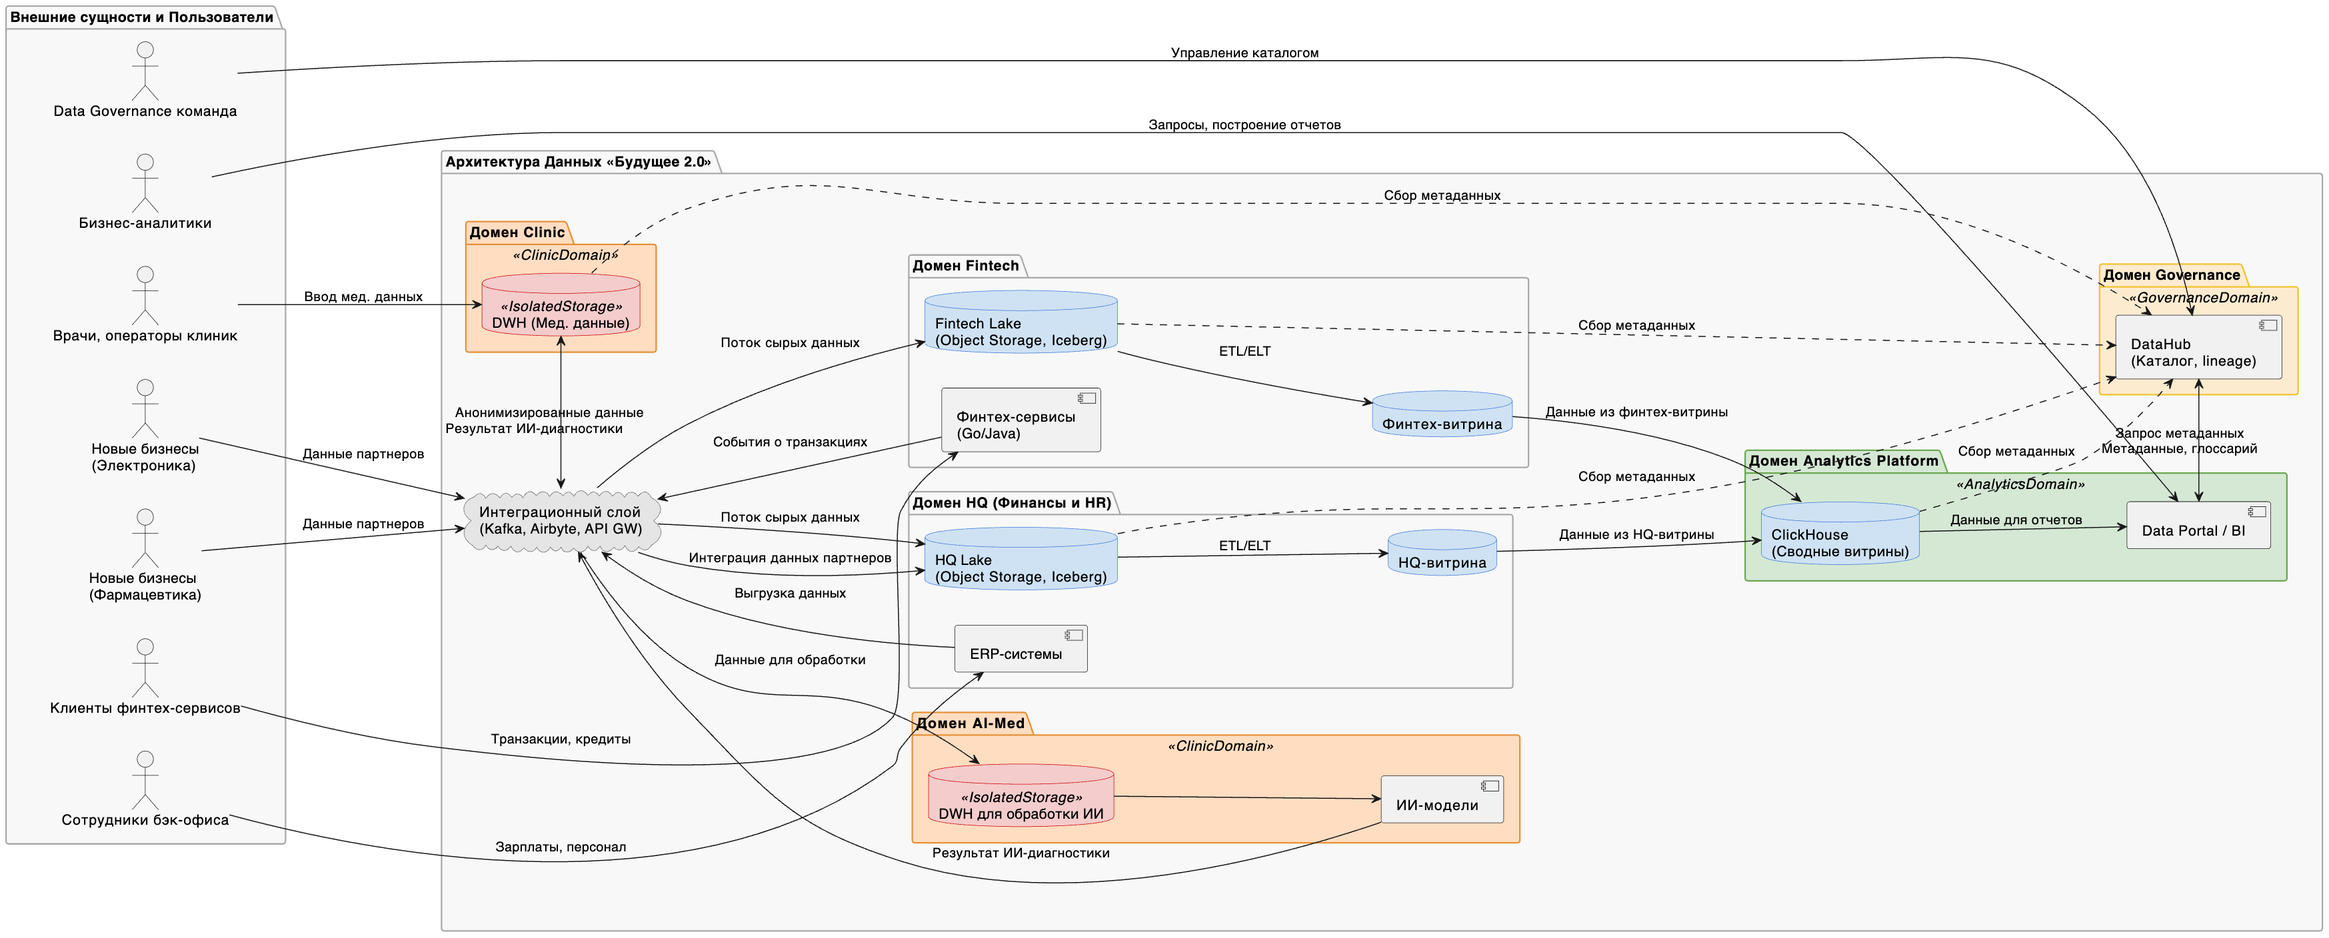
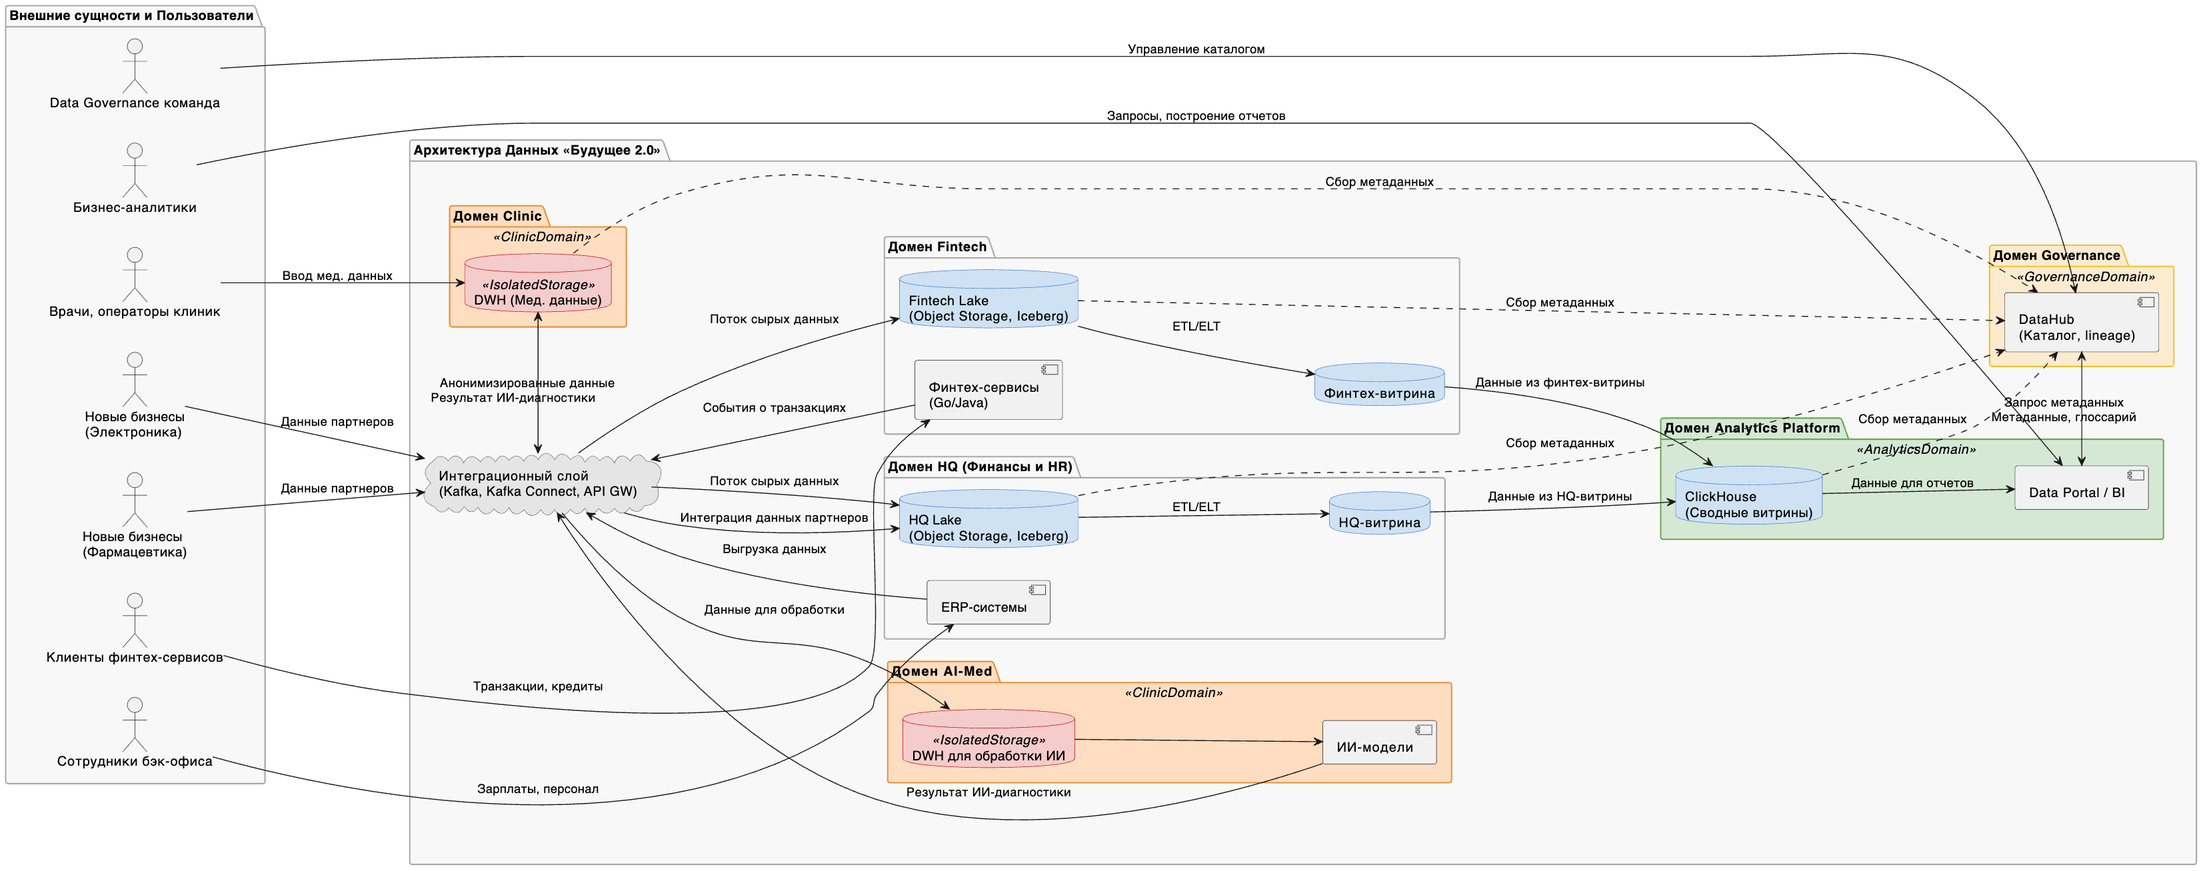
feat/task3

diff --git a/Task3/README.md b/Task3/README.md
@@ -1,0 +1,135 @@
+## 1. Технический радар компании «Будущее 2.0»
+
+*Объяснение уровней*
+
+| Уровень    | Что означает                        |
+| ---------- | ----------------------------------- |
+| **Adopt**  | Активно внедряется и поддерживается |
+| **Trial**  | Пилотируется, частично внедрено     |
+| **Assess** | Изучается, в перспективе            |
+| **Hold**   | Используется в легаси / выводится   |
+
+| Категория            | Технология / Методология   | Статус    | Комментарий                                              |
+| -------------------- | -------------------------- | --------- | -------------------------------------------------------- |
+| **Data Platforms**   | Microsoft SQL Server 2008  | **Hold**  | Устаревшее хранилище, отказ в перспективе                |
+|                      | Apache Iceberg             | **Adopt** | Слой метаданных в Data Lakehouse                         |
+|                      | ClickHouse                 | **Adopt** | Быстрое хранилище для витрин                             |
+|                      | MinIO / S3                 | **Adopt** | Объектное хранилище для сырых и очищенных данных         |
+|                      | DataHub (LinkedIn)         | **Trial** | Каталог данных, lineage, роли                            |
+|                      | Tableau                    | **Adopt** | BI-портал самообслуживания                               |
+|                      | Power BI                   | **Hold**  | Используется, но не масштабируется под новую архитектуру |
+|                      | PowerBuilder               | **Hold**  | Устаревший UI, только для легаси-зоны                    |
+| **Data Integration** | Apache Kafka               | **Adopt** | Единый обмен событиями между доменами                    |
+|                      | Kafka Connect (S3 Sink)    | **Adopt** | Потокавая передача данных между Kafka и хранилищем       |
+|                      | Apache Camel               | **Hold**  | Устаревшая шина, подлежит замене                         |
+|                      | API Gateway (Kong)         | **Adopt** | Унифицированный доступ к сервисам                        |
+| **AI / ML**          | Python + FastAPI           | **Adopt** | ИИ-сервисы и API                                         |
+|                      | JupyterHub                 | **Trial** | Среда анализа для дата-сайентистов                       |
+| **Infrastructure**   | Kubernetes / Docker        | **Adopt** | Платформа для сервисов, Kafka, BI и т.д.                 |
+|                      | Terraform / Helm           | **Trial** | Инфраструктура как код                                   |
+|                      | Prometheus / Grafana       | **Trial** | Мониторинг потоков, загрузки и отказов                   |
+| **Methodology**      | Data Mesh                  | **Adopt** | Распределённая ответственность за данные по доменам      |
+|                      | Domain-Driven Design (DDD) | **Adopt** | Архитектурная основа разделения по зонам                 |
+|                      | Event-Driven Architecture  | **Adopt** | Kafka, pub/sub модель между доменами                     |
+|                      | ELT вместо ETL             | **Adopt** | Минимум логики на ingest-этапе, максимум в витринах      |
+|                      | GDPR / HIPAA compliance    | **Adopt** | Изоляция медицинских данных                              |
+
+
+## 2.Технологический роадмап компании «Будущее 2.0»
+
+![](./diagrams/roadmap.png)
+
+| Этап                                                  | Срок        | Цель / Изменения                                                           | Ожидаемый результат                                                           | Ответственные команды                   | Ресурсы                                         |
+| ----------------------------------------------------- | ----------- | -------------------------------------------------------------------------- | ----------------------------------------------------------------------------- | --------------------------------------- | ----------------------------------------------- |
+| **1. Анализ и планирование**                          | Месяц 1     | Разделение системы на домены. Аудит DWH, данных и потоков        | Чёткое понимание границ доменов, источников данных и чувствительных элементов | Архитектура, Data Governance, Аналитика | Архитекторы, бизнес-аналитики, инженеры данных  |
+| **2. Выделение медицинского домена**                  | Месяц 1–2   | Изоляция мед. карт и ИИ-диагностик. Отключение этих данных от BI | Безопасное хранение и ограничение доступа к мед. данным                       | Команда DWH, ИИ-команда, ИБ             | Политики доступа, аудит, настройка прав         |
+| **3. Развёртывание Data Lakehouse**                   | Месяц 2–4   | Внедрение object storage (S3/MinIO) + Apache Iceberg                    | Гибкая, масштабируемая платформа для хранения сырых и очищенных данных        | DevOps, Инженеры данных                 | Объём хранилища, Kubernetes, Iceberg, Terraform |
+| **4. Публикация событий через Kafka**                 | Месяц 3–5   | Настройка потоков событий (финансы, ERP, HR)                            | Потоковое получение данных без привязки к DWH                                 | Интеграционная команда, Финтех, HQ      | Kafka, схемы Avro/JSON, ACL                     |
+| **5. Внедрение Kafka Connect**                              | Месяц 4–5   | Настройка потоков Kafka → Object Storage                                | Автоматическая передача событий в lake                                        | Инженеры данных                         | Kafka Connect, S3 endpoint, scheduler                 |
+| **6. Построение витрин (Data Marts)**                 | Месяц 5–7   | Создание витрин на ClickHouse по доменам                                | Витрины для BI, без мед. данных                                               | Команды доменов, Data Engineers         | ClickHouse, SQL/DBT, права доступа              |
+| **7. BI-портал самообслуживания**                     | Месяц 6–8   | Tableau с подключением к витринам                            | Пользователи строят отчёты без запроса к ИТ                                   | BI-команда, Архитектура                 | Tableau Server, роль BI-кураторов               |
+| **8. Внедрение DataHub**                              | Месяц 7–9   | Каталог всех безопасных источников и lineage                            | Повышение прозрачности и контроля качества данных                             | Data Governance, DevOps                 | DataHub, Elastic, Kafka               |
+| **9. Миграция от SQL Server и PowerBuilder**          | Месяц 8–12  | Постепенный отказ от DWH как единого центра                             | DWH остаётся только в мед. домене                                             | Команда DWH, клиники, DevOps            | План миграции, архивирование, SLA               |
+| **10. Подключение новых доменов (фарма, устройства)** | Месяц 10–12 | Добавление новых потоков событий и витрин                               | Новые бизнесы интегрированы без модификации DWH                               | Архитектура, Бизнес-группы              | Kafka topics, BI-права, метаданные              |
+
+## 📌 Пояснения к этапам
+
+### Этап 1. Анализ и планирование (разделение на домены)
+- **Зачем**: устранить хаос и централизацию логики в DWH.
+- **Проблема, которую решает**: невозможность независимо развивать разные части бизнеса.
+- **Что даёт**: чёткая архитектура, ответственность за данные, подготовка к Data Mesh.
+
+---
+
+### Этап 2. Выделение медицинского домена (изоляция медицинских данных)
+- **Зачем**: исключить мед. данные из BI и аналитики.
+- **Проблема**: риск утечек, нарушение регуляций (GDPR, HIPAA).
+- **Что даёт**: соблюдение нормативов, безопасность, защита ИИ-процессов.
+
+---
+
+### Этап 3. Развёртывание Data Lakehouse
+- **Зачем**: перейти от перегруженного DWH к масштабируемому хранилищу.
+- **Проблема**: DWH тормозит всё, нельзя гибко расширяться.
+- **Что даёт**: низкая стоимость хранения, раздельная обработка данных и логики.
+
+---
+
+### Этап 4. Публикация событий через Kafka
+- **Зачем**: получать данные потоками, а не выгрузками.
+- **Проблема**: невозможность near real-time отчётности.
+- **Что даёт**: событие = изменение, не нужно ждать ночных выгрузок.
+
+---
+
+### Этап 5. Внедрение Kafka Connect
+- **Зачем**: стабильный и прозрачный перенос из Kafka в хранилище.
+- **Проблема**: хранение не поступает сразу → теряются события.
+- **Что даёт**: автоматический и повторноисполняемый поток.
+
+---
+
+### Этап 6. Витрины (Data Marts)
+- **Зачем**: ускорить отчёты, отделить аналитику от сырых данных.
+- **Проблема**: отчёты в DWH медленные и нестабильные.
+- **Что даёт**: быстрая агрегация, оптимизированные таблицы для BI.
+
+---
+
+### Этап 7. BI-портал
+- **Зачем**: дать аналитикам и бизнесу самостоятельный доступ.
+- **Проблема**: всё через ИТ, запросы ждут неделями.
+- **Что даёт**: self-service, доступ по ролям, рост эффективности.
+
+---
+
+### Этап 8. Внедрение DataHub
+- **Зачем**: понять, откуда и куда идут данные, кто за что отвечает.
+- **Проблема**: неясно, какие таблицы актуальны, кто их поддерживает.
+- **Что даёт**: каталог, lineage, governance.
+
+---
+
+### Этап 9. Миграция от SQL Server и PowerBuilder
+- **Зачем**: завершить трансформацию, оставить DWH только в медзоне.
+- **Проблема**: пока DWH в центре, прогресс ограничен.
+- **Что даёт**: снижение нагрузки, полная доменная архитектура.
+
+---
+
+### Этап 10. Подключение новых бизнесов
+- **Зачем**: быстро масштабироваться (фарма, электроника).
+- **Проблема**: сейчас новое = переписать DWH.
+- **Что даёт**: Kafka + витрины → интеграция за недели, а не месяцы.
+
+---
+
+## Конечная цель
+
+К концу года компания получит:
+- 💡 BI самообслуживание без участия DWH
+- 🔐 Безопасную зону хранения мед. данных
+- 🧩 Гибкую архитектуру по доменам
+- 📚 Полную прозрачность по данным через DataHub
+- 🔄 Готовность к росту и новым бизнесам
+

diff --git a/Task2/README.md b/Task2/README.md
@@ -7,7 +7,7 @@
 | **Финтех (Fintech)**                  | Транзакции, кредиты, счета                  | Финтех-команда           | Object Storage → Iceberg → Data Marts | События публикуются в Kafka                             |
 | **Финансы и HR (HQ)**                 | ERP, зарплаты, инвентарь, персонал          | Бэк-офис                 | Object Storage → Iceberg → Data Marts | Отдельные BI-витрины                                    |
 | **Аналитика (Analytics Platform)**    | Витрина данных, BI, DataHub                 | Центр компетенций данных | ClickHouse, Data Portal, DataHub      | Объединяет доступ к витринам, без доступа к медданным   |
-| **Интеграция (Integration Layer)**    | Kafka, API Gateway, Airbyte                 | Архитектура и платформа  | Kafka, Airbyte                        | Транспорт данных между доменами, без логики             |
+| **Интеграция (Integration Layer)**    | Kafka, API Gateway, Kafka Connect                 | Архитектура и платформа  | Kafka, Kafka Connect                        | Транспорт данных между доменами, без логики             |
 | **Каталог и управление (Governance)** | Каталог, lineage, доступы                   | Data Governance команда  | DataHub                               | Сквозная прозрачность по всем доступным данным          |
 
 
